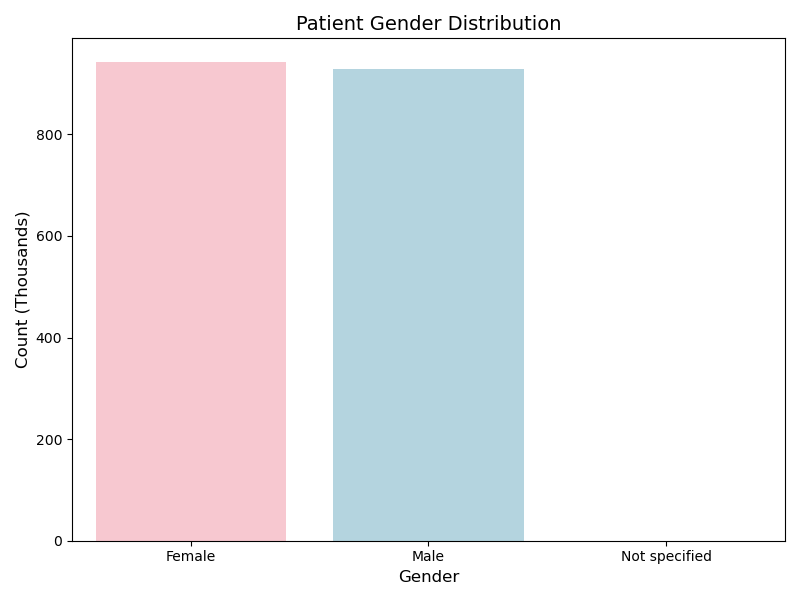
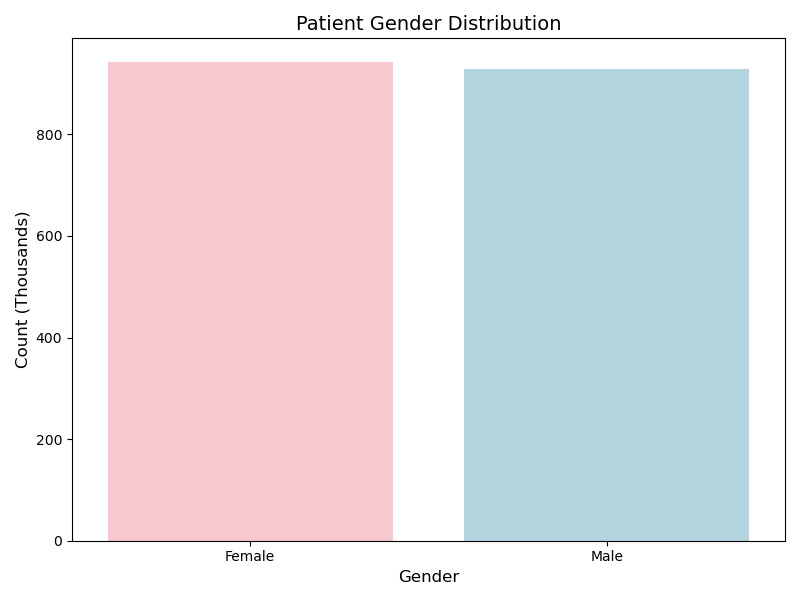
Address critical review feedback: Fix Ghost Label, update Python snippets

diff --git a/simulacrum-analysis.html b/simulacrum-analysis.html
@@ -239,9 +239,12 @@
 gender_map = {0: "Not known", 1: "Male", 2: "Female", 9: "Not specified"}
 df['GENDER_LABEL'] = df['GENDER'].map(gender_map)
 
-# Filter out empty/unknown categories if they are effectively zero
+# Filter out empty/unknown categories
+# "Ghost Label" Fix: Explicitly remove 'Not specified' if count is 0
 gender_counts = df['GENDER_LABEL'].value_counts()
 gender_counts = gender_counts[gender_counts > 0]
+if 'Not specified' in gender_counts.index:
+    gender_counts = gender_counts.drop('Not specified')
 
 # Scale to Thousands
 gender_counts_scaled = gender_counts / 1000
@@ -491,8 +494,10 @@ icd10_map = {
 }
 labels = [f"{code} ({icd10_map.get(code, code)})" for code in site_counts.index]
 
-# Scale and Plot
+# Scale to Thousands
 site_counts_scaled = site_counts / 1000
+
+# Plot
 sns.barplot(x=site_counts_scaled.values, y=labels, color="steelblue")
 plt.title("Top 10 Invasive Cancer Sites (Excl. NMSC)")
 plt.xlabel("Count (Thousands)")
